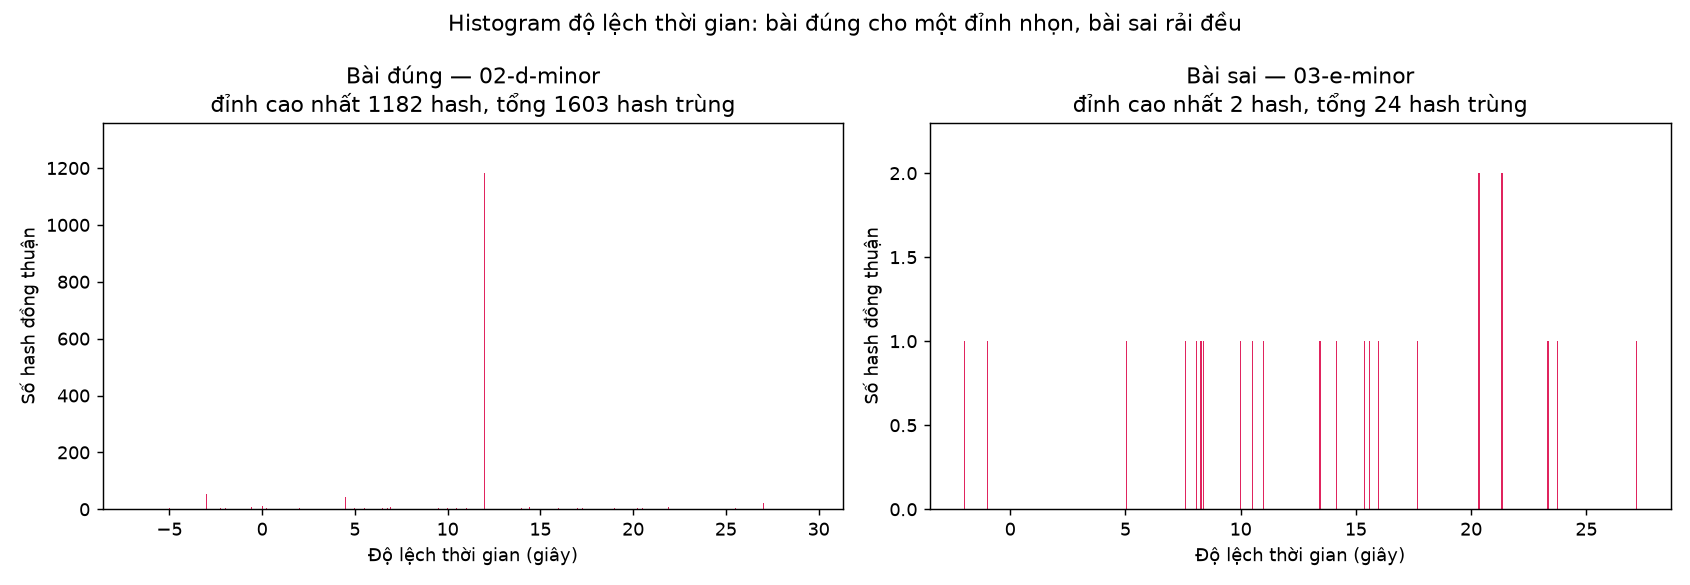
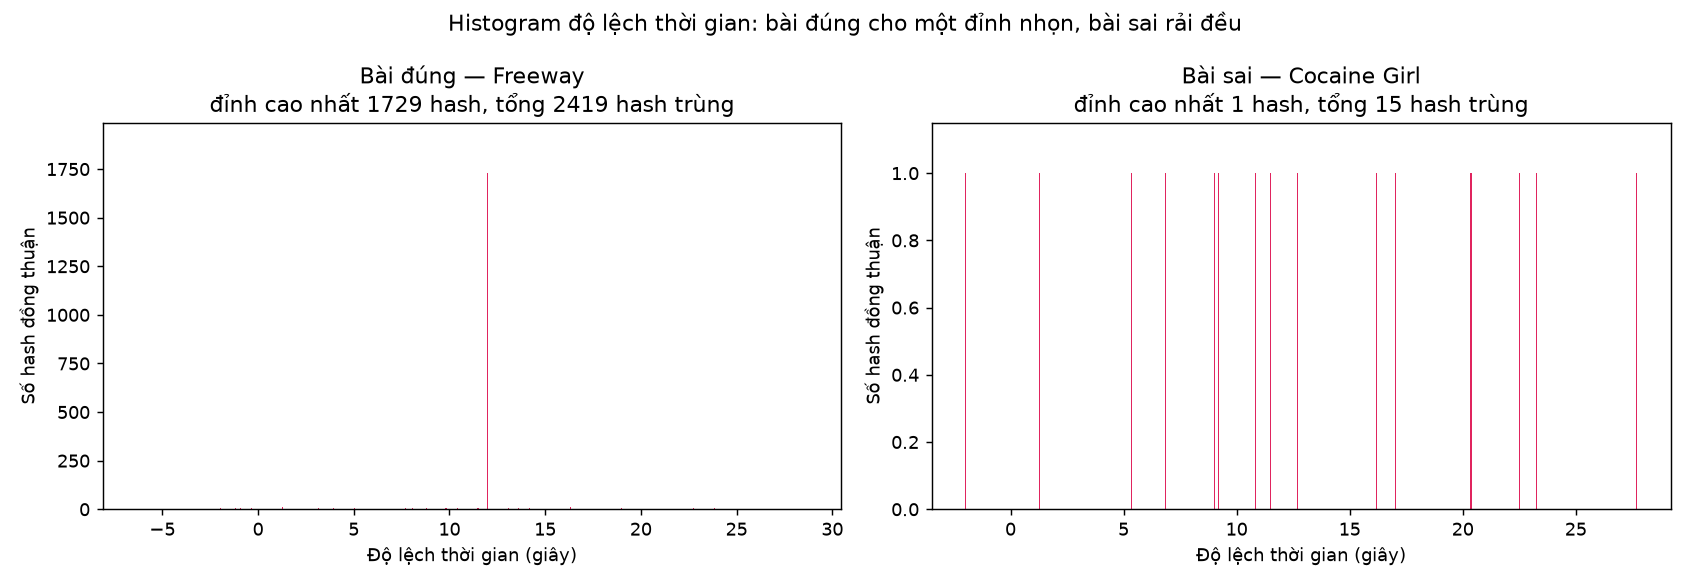
feat: render the resampling and peak-pairing steps, from real music
The algorithm walkthrough had figures for three of its five steps. Resampling
and peak pairing were the two carrying the least obvious claims and had none.

Both draw from data the script already computed, so they extend the existing
visualiser rather than arriving as new scripts. The resampling figure plots the
spectrum before and after so the anti-alias cut is visible as removal rather
than fold-back; the pairing figure draws the target zone and fan-out, which
shows what a hash is made of in a way the constellation alone cannot.

Regenerated every figure from an FMA track instead of a synthetic chord
progression. On real music the peaks spread across the spectrum and follow
harmonic lines, rather than clustering on the percussion of a self-made signal.

diff --git a/scripts/visualize_pipeline.py b/scripts/visualize_pipeline.py
@@ -1,8 +1,11 @@
-"""Render the spectrogram and constellation map of one track to PNG.
+"""Render one track's four fingerprinting steps to PNG.
 
 Numbers in a test suite prove the transform is self-consistent. They do not
 show whether peak density is sane or whether peaks track the harmonics of the
 music, and both of those are tuning decisions that have to be made by eye.
+
+Writes four figures: the resampling that step 1 performs, the spectrogram from
+step 2, the constellation map from step 3, and the peak pairing from step 4.
 
 Usage:
     uv run python scripts/visualize_pipeline.py path/to/song.mp3
@@ -21,9 +24,12 @@ matplotlib.use("Agg")  # Render to file; no display needed.
 import matplotlib.pyplot as plt
 import numpy as np
 import numpy.typing as npt
+import soundfile as sf
+from matplotlib.patches import Rectangle
 
 from shazam.audio import load
 from shazam.config import DspConfig
+from shazam.hashing import pack_hash
 from shazam.peaks import LOG_EPSILON, Peak, find_peaks
 from shazam.stft import stft
 
@@ -80,6 +86,136 @@ def main() -> None:
         title=f"Constellation map — {stem} ({density:.1f} peaks/s)",
         path=args.out / f"{stem}-constellation.png",
     )
+    _plot_resampling(args.audio, excerpt, config, args.out / f"{stem}-resampling.png")
+    _plot_pairing(peaks, config, stem, args.out / f"{stem}-pairing.png")
+
+
+def _plot_resampling(
+    source: Path,
+    processed: npt.NDArray[np.floating],
+    config: DspConfig,
+    path: Path,
+) -> None:
+    """Show what step 1 keeps and what it throws away.
+
+    Plots the average spectrum of the file as delivered against the same
+    measure after processing. The point is that everything above the new
+    Nyquist is *removed* rather than folded back down as alias, which is the
+    one thing a resampler can get wrong without the result sounding obviously
+    broken.
+    """
+    original, source_rate = sf.read(source, always_2d=True)
+    mono = original.mean(axis=1)
+    # Match durations so the two averages describe the same passage of music.
+    mono = mono[: int(len(processed) / config.sample_rate * source_rate)]
+
+    fig, axes = plt.subplots(figsize=(14, 5))
+    for samples, rate, label, colour in (
+        (mono, source_rate, f"Trước — {source_rate} Hz", "#999999"),
+        (processed, config.sample_rate, f"Sau — {config.sample_rate} Hz", "#d62728"),
+    ):
+        spectrum = np.abs(np.fft.rfft(samples * np.hanning(len(samples))))
+        freqs = np.fft.rfftfreq(len(samples), 1.0 / rate)
+        # Normalise by length so the two FFTs are comparable in level.
+        axes.semilogy(freqs, spectrum / len(samples) + 1e-12, label=label, color=colour, lw=0.8)
+
+    nyquist = config.sample_rate / 2.0
+    axes.axvline(nyquist, color="#1f77b4", ls="--", lw=1.5, label=f"Nyquist mới — {nyquist:.0f} Hz")
+    axes.set_xlim(0, source_rate / 2.0)
+    axes.set_title(
+        f"Bước 1 — hạ tần số lấy mẫu {source_rate} → {config.sample_rate} Hz "
+        "(phần trên Nyquist bị lọc bỏ, không gập xuống)"
+    )
+    axes.set_xlabel("Tần số (Hz)")
+    axes.set_ylabel("Biên độ trung bình")
+    axes.legend()
+    fig.tight_layout()
+    fig.savefig(path, dpi=120)
+    plt.close(fig)
+    print(f"wrote {path}")
+
+
+def _plot_pairing(peaks: list[Peak], config: DspConfig, stem: str, path: Path) -> None:
+    """Show step 4: one anchor peak paired with the peaks in its target zone.
+
+    The constellation on its own does not explain why the fingerprint survives
+    a clip starting at an arbitrary moment. What survives is the *shape*
+    between two peaks, so the figure draws the zone and the pairs rather than
+    the points alone.
+    """
+    min_frames = config.seconds_to_frames(config.min_time_delta)
+    max_frames = config.seconds_to_frames(config.max_time_delta)
+
+    # Pick an anchor that actually fills its fan-out, so the drawing shows the
+    # normal case instead of a sparse edge of the track.
+    anchor = None
+    targets: list[Peak] = []
+    for index, candidate in enumerate(peaks):
+        zone = [
+            peak
+            for peak in peaks[index + 1 :]
+            if min_frames <= peak.frame - candidate.frame <= max_frames
+        ][: config.fan_out]
+        if len(zone) >= config.fan_out:
+            anchor, targets = candidate, zone
+            break
+    if anchor is None:
+        print("no anchor with a full target zone; skipping pairing figure")
+        return
+
+    to_time = config.frame_duration
+    to_hz = config.bin_width_hz
+
+    fig, axes = plt.subplots(figsize=(14, 6))
+    window = [
+        peak
+        for peak in peaks
+        if anchor.frame - 20 <= peak.frame <= anchor.frame + max_frames + 20
+    ]
+    axes.scatter(
+        [p.frame * to_time for p in window],
+        [p.freq_bin * to_hz for p in window],
+        s=18, c="#bbbbbb", label="Đỉnh khác",
+    )
+    axes.add_patch(
+        Rectangle(
+            ((anchor.frame + min_frames) * to_time, 0),
+            (max_frames - min_frames) * to_time,
+            config.sample_rate / 2.0,
+            facecolor="#1f77b4", alpha=0.10, edgecolor="#1f77b4", ls="--",
+            label=f"Vùng đích Δt ∈ [{config.min_time_delta}s, {config.max_time_delta}s]",
+        )
+    )
+    for target in targets:
+        axes.plot(
+            [anchor.frame * to_time, target.frame * to_time],
+            [anchor.freq_bin * to_hz, target.freq_bin * to_hz],
+            color="#d62728", lw=1.2, zorder=3,
+        )
+    axes.scatter(
+        [t.frame * to_time for t in targets],
+        [t.freq_bin * to_hz for t in targets],
+        s=45, c="#d62728", zorder=4, label=f"Đỉnh đích (fan-out {config.fan_out})",
+    )
+    axes.scatter(
+        [anchor.frame * to_time], [anchor.freq_bin * to_hz],
+        s=140, c="#2ca02c", marker="*", zorder=5, label="Đỉnh neo",
+    )
+
+    first = targets[0]
+    example = pack_hash(anchor.freq_bin, first.freq_bin, first.frame - anchor.frame)
+    axes.set_title(
+        f"Bước 4 — ghép cặp đỉnh thành hash — {stem}\n"
+        f"ví dụ: (f1={anchor.freq_bin}, f2={first.freq_bin}, "
+        f"Δt={first.frame - anchor.frame} khung) → hash {example}"
+    )
+    axes.set_xlabel("Thời gian (s)")
+    axes.set_ylabel("Tần số (Hz)")
+    axes.legend(loc="upper right")
+    fig.tight_layout()
+    fig.savefig(path, dpi=120)
+    plt.close(fig)
+    print(f"wrote {path}")
 
 
 def _plot(
